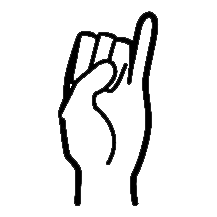
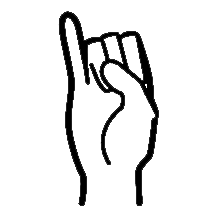
Flipped images, added overlay to datacollect

Changed region(s): [[0.2488, 0.0553, 0.7465, 0.9677]]

diff --git a/signML/screens/DataScreen.tsx b/signML/screens/DataScreen.tsx
@@ -6,12 +6,15 @@ import {
   TouchableOpacity,
   ActivityIndicator,
   AppState,
+  Alert,
+  Image,
 } from "react-native";
 import { Camera } from "expo-camera";
 import { showMessage, hideMessage } from "react-native-flash-message";
 import * as MediaLibrary from "expo-media-library";
 import * as Permissions from "expo-permissions";
 import { useIsFocused } from "@react-navigation/native";
+import * as Linking from "expo-linking";
 
 import colors from "../utils/theme";
 import API from "../utils/API";
@@ -20,16 +23,23 @@ const PracticeScreen = () => {
   const [hasPermission, setHasPermission] = useState<boolean | undefined>();
   const [letters, setLetters] = useState<string[]>();
   const [imageCount, setImageCount] = useState(0);
-  const [selectedLetter, setSelectedLetter] = useState<String>();
+  const [selectedLetter, setSelectedLetter] = useState<number>(0);
   const cameraRef = useRef(null);
   const [isActive, setIsActive] = useState(true);
   const [isSaving, setIsSaving] = useState(false);
 
   const isFocused = useIsFocused();
 
+  const E = require("../assets/letters/E.png");
+  const N = require("../assets/letters/N.png");
+  const G = require("../assets/letters/G.png");
+  const I = require("../assets/letters/I.png");
+  const R = require("../assets/letters/R.png");
+
+  const LETTERS = [E, N, G, I, R];
+
   useLayoutEffect(() => {
     const subscription = AppState.addEventListener("change", (nextAppState) => {
-      console.log(nextAppState);
       setIsActive(nextAppState === "active");
     });
 
@@ -50,7 +60,8 @@ const PracticeScreen = () => {
   const requestPerm = async () => {
     const permission = await Permissions.getAsync(Permissions.MEDIA_LIBRARY);
     if (!permission.canAskAgain) {
-      console.log("cant ask bby");
+      Alert.alert("Allow camera permissions");
+      Linking.openSettings();
     }
     if (permission.status !== "granted") {
       const newPermission = await Permissions.askAsync(
@@ -60,7 +71,6 @@ const PracticeScreen = () => {
         setHasPermission(true);
       }
     } else {
-      console.log("focused" + isActive);
       setHasPermission(true);
     }
   };
@@ -70,7 +80,7 @@ const PracticeScreen = () => {
       .then((response) => response.json())
       .then((json) => {
         setLetters(json.selectedLetters);
-        setSelectedLetter(json.selectedLetters[0]);
+        setSelectedLetter(0);
       })
       .catch((error) => {
         console.error(error);
@@ -103,8 +113,8 @@ const PracticeScreen = () => {
     fetchPrompt();
   }, []);
 
-  const Letter = ({ letter }: { letter: String }) => {
-    if (letter == selectedLetter) {
+  const Letter = ({ letter, index }: { letter: String; index: number }) => {
+    if (index == selectedLetter) {
       //if the letter has been guessed correctly
       return (
         <View style={{ borderBottomWidth: 3, borderColor: "white" }}>
@@ -122,11 +132,21 @@ const PracticeScreen = () => {
       {hasPermission && isActive && isFocused ? (
         <View style={styles.cameraView}>
           <Camera
-            type={Camera.Constants.Type.front}
+            type={Camera.Constants.Type.back}
             ref={cameraRef}
             ratio={"1:1"}
             style={{ width: "100%", height: "100%" }}
-          ></Camera>
+          >
+            <Image
+              source={LETTERS[selectedLetter]}
+              style={{
+                width: 300,
+                height: 300,
+                alignSelf: "center",
+                marginTop: -25,
+              }}
+            />
+          </Camera>
         </View>
       ) : (
         <TouchableOpacity
@@ -153,12 +173,12 @@ const PracticeScreen = () => {
               return (
                 <TouchableOpacity
                   onPress={() => {
-                    setSelectedLetter(letter);
+                    setSelectedLetter(index);
                     setImageCount(0);
                   }}
                   key={letter}
                 >
-                  <Letter letter={letter} />
+                  <Letter letter={letter} index={index} />
                 </TouchableOpacity>
               );
             })

diff --git a/signML/screens/PracticeScreen.tsx b/signML/screens/PracticeScreen.tsx
@@ -26,7 +26,7 @@ type LetterInterface = {
 
 const PracticeScreen = () => {
   const [hasPermission, setHasPermission] = useState<boolean | undefined>();
-  const [type, setType] = useState(Camera.Constants.Type.front);
+  const [type, setType] = useState(Camera.Constants.Type.back);
   const [promptState, setPromptState] = useState<getStateInterface>();
   const [loading, setLoading] = useState(false);
   const cameraRef = useRef(null);
@@ -40,9 +40,10 @@ const PracticeScreen = () => {
   const I = require("../assets/letters/I.png");
   const R = require("../assets/letters/R.png");
 
+  const LETTERS = [E, N, G, I, R];
+
   useLayoutEffect(() => {
     const subscription = AppState.addEventListener("change", (nextAppState) => {
-      console.log(nextAppState);
       setIsActive(nextAppState === "active");
     });
 
@@ -136,7 +137,10 @@ const PracticeScreen = () => {
             ref={cameraRef}
             ratio={"1:1"}
           >
-            <Image source={G} style={{ flex: 1, alignSelf: "center" }} />
+            <Image
+              source={LETTERS[2]}
+              style={{ flex: 1, alignSelf: "center" }}
+            />
           </Camera>
         </View>
       ) : (
